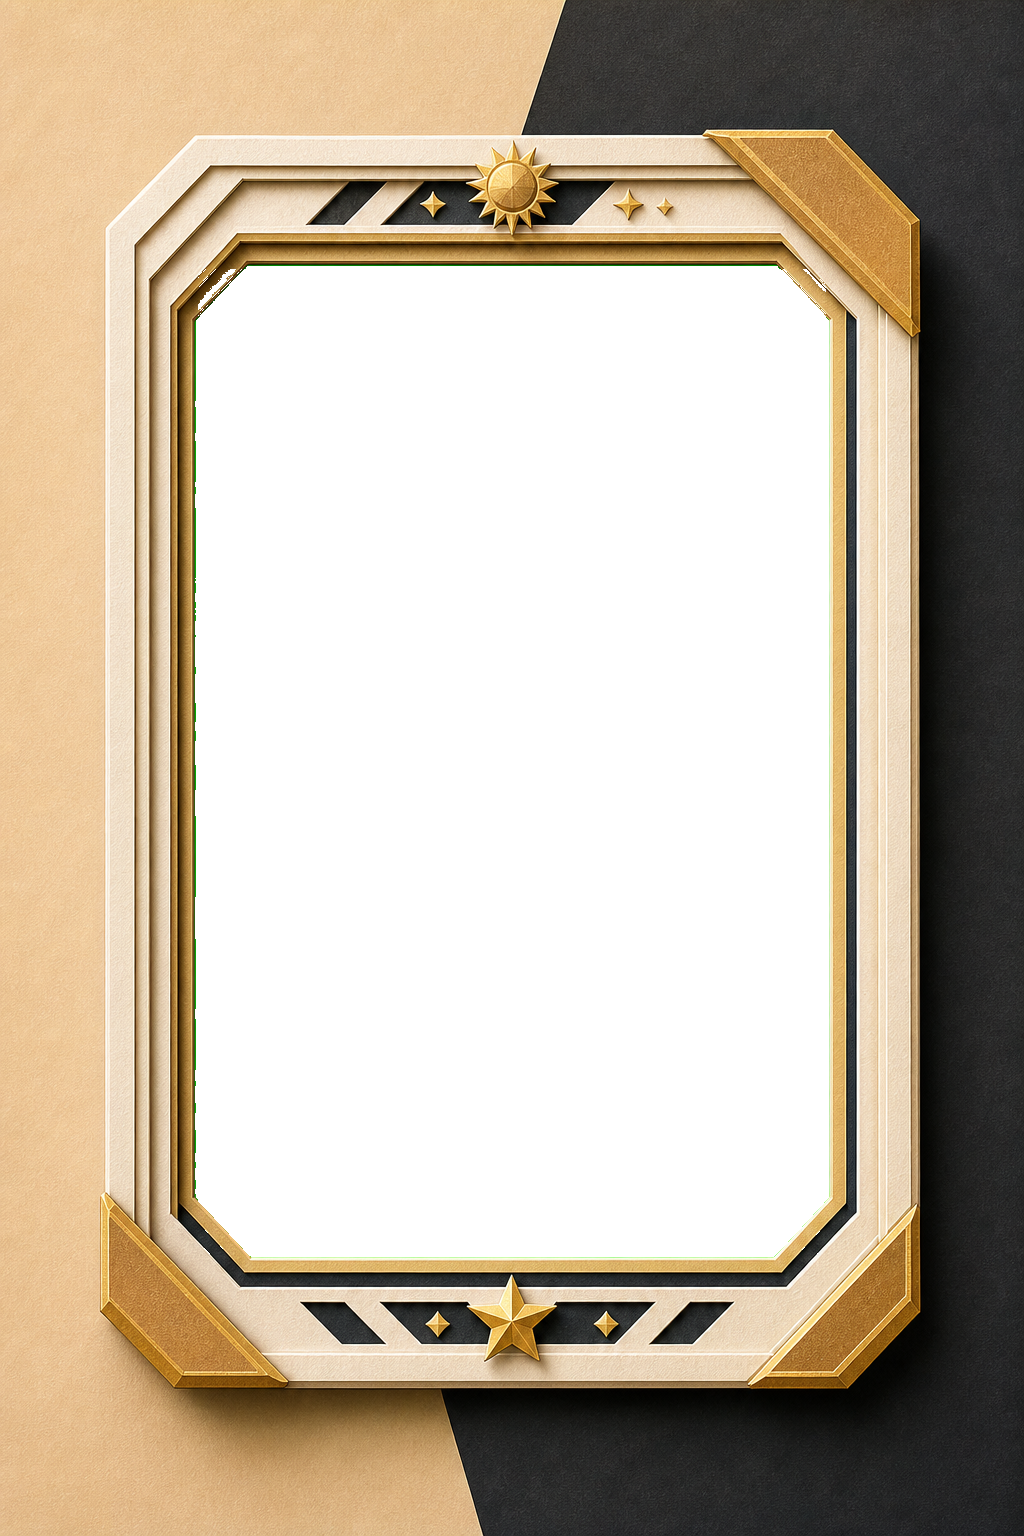
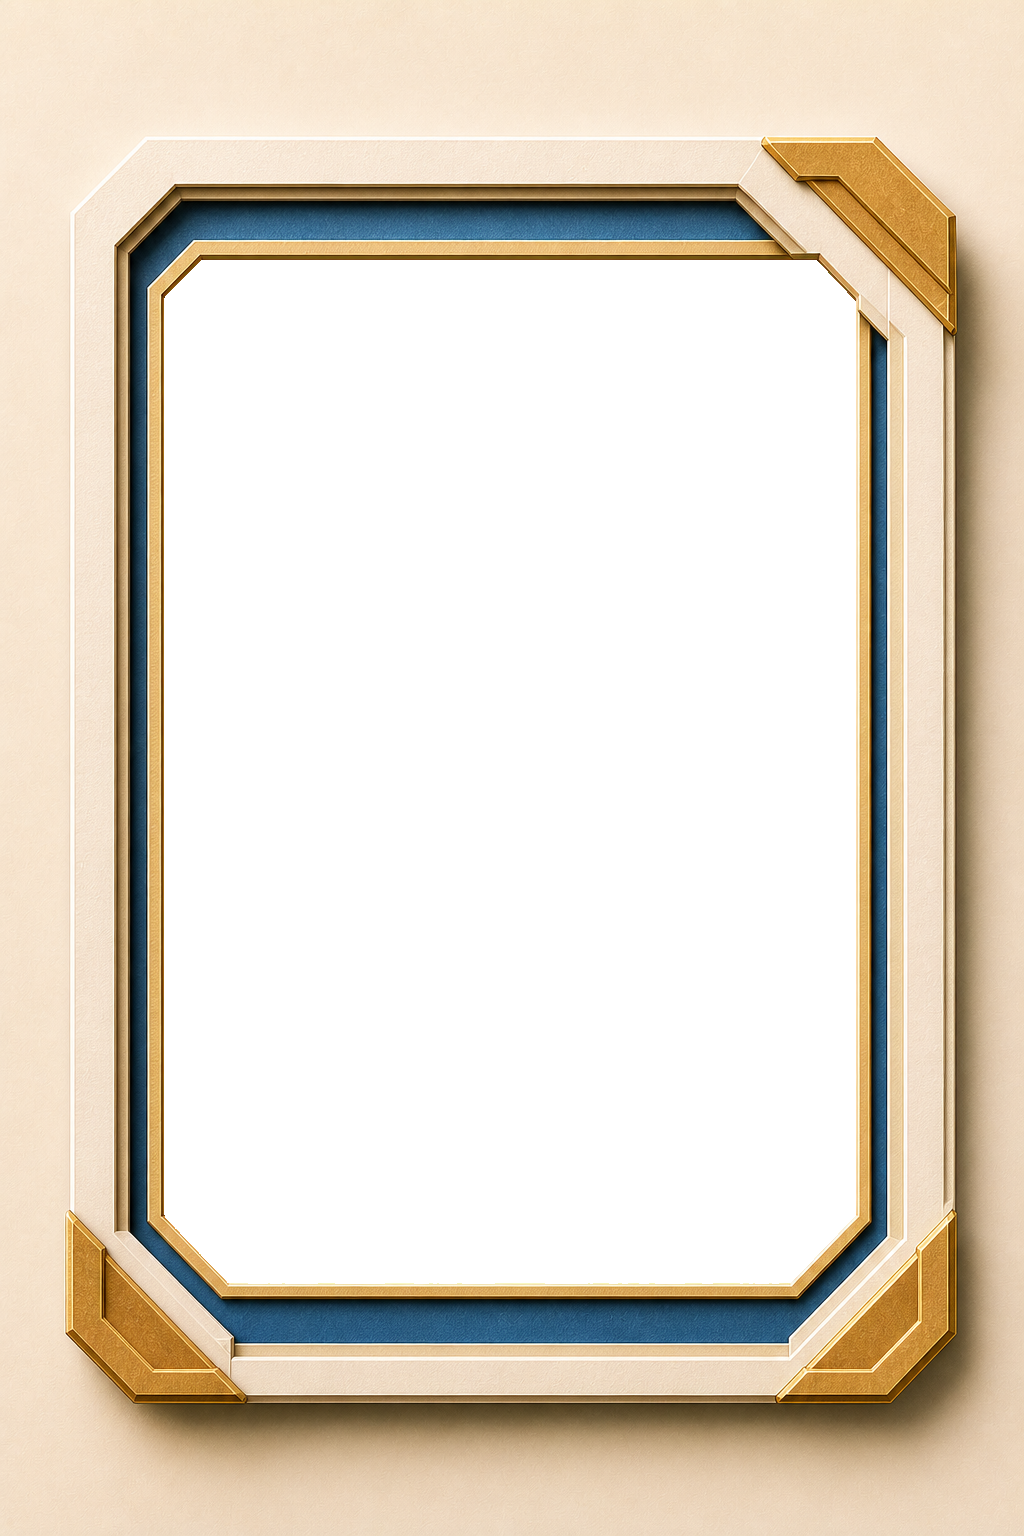
Tune reward card frame layout

diff --git a/2026-FIFA-World-Cup/fan-cards.html b/2026-FIFA-World-Cup/fan-cards.html
@@ -2284,13 +2284,13 @@ function renderRewardBadgeSummary(team,rewardState,s=loadState()){
 const REWARD_TEMPLATE_VERSION='paper-sculpture-argentina-lock-v1';
 const REWARD_FRAME_TEMPLATE_SRC='assets/fan-cards/rewards/templates/reward-frame-argentina-lock-v1.png';
 const REWARD_FRAME_TEMPLATE_SIZE={w:1024,h:1536};
-const REWARD_FRAME_CARD_SLOT={x:195,y:266,w:634,h:991};
+const REWARD_FRAME_CARD_SLOT={x:164,y:260,w:692,h:1024};
 const REWARD_BADGE_SLOTS=[
-  {x:310,y:275,w:560,rot:-7,name:'top-left-hero'},
-  {x:1484,y:385,w:390,rot:7,name:'top-right-support'},
-  {x:330,y:2210,w:430,rot:-5,name:'bottom-left-support'},
-  {x:1468,y:2210,w:430,rot:5,name:'bottom-right-support'},
-  {x:900,y:2255,w:250,rot:0,name:'bottom-center-mini'}
+  {x:455,y:390,w:635,rot:-7,name:'top-left-hero'},
+  {x:1450,y:510,w:470,rot:7,name:'top-right-support'},
+  {x:430,y:2270,w:560,rot:-5,name:'bottom-left-support'},
+  {x:1375,y:2265,w:560,rot:5,name:'bottom-right-support'},
+  {x:900,y:2310,w:350,rot:0,name:'bottom-center-mini'}
 ];
 let rewardFrameTemplatePromise=null;
 function loadRewardFrameTemplate(){